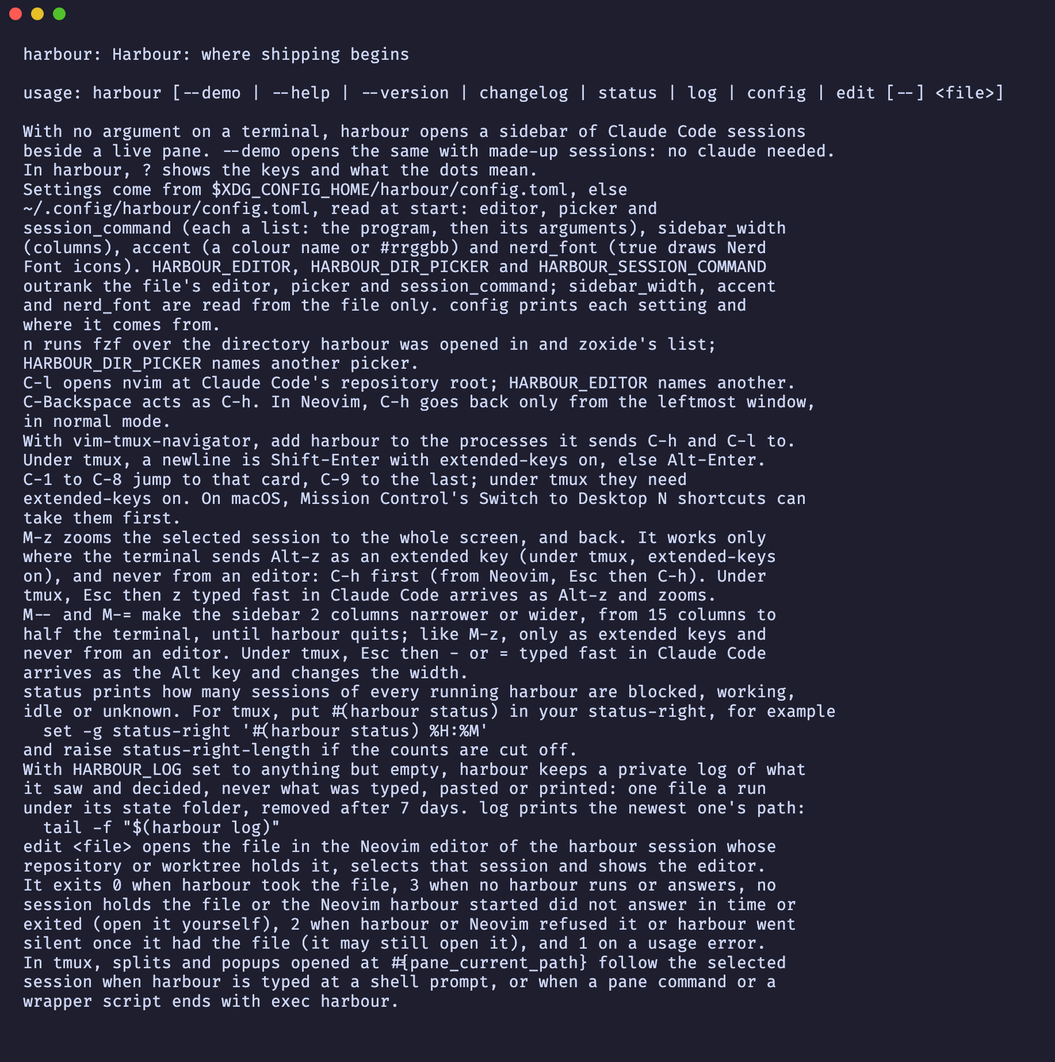
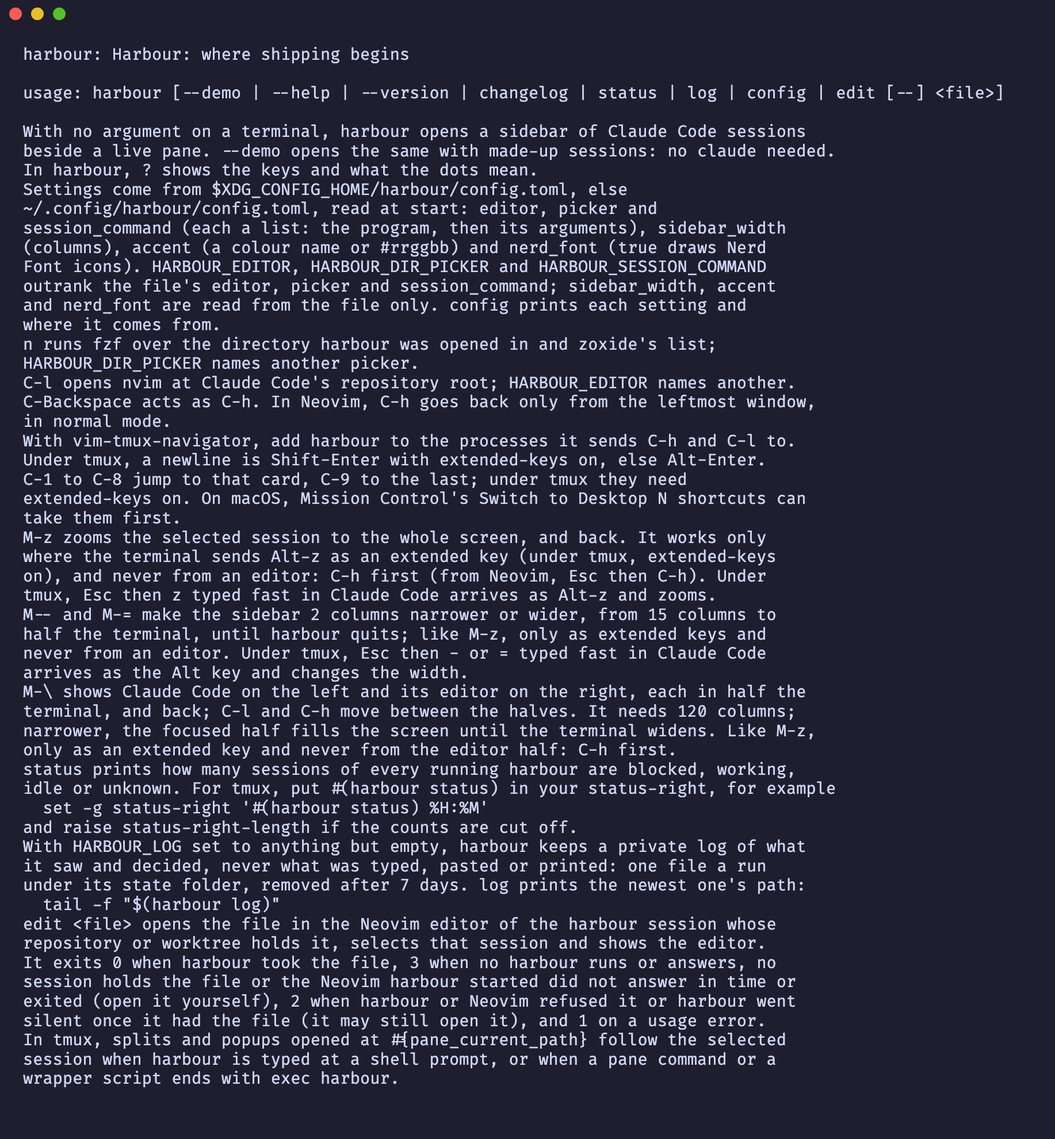
Alt-backslash in the help, the README, harbour --help, the log and the screenshots

Changed region(s): [[0.0, 0.0309, 0.8391, 0.9572], [0.8702, 0.0618, 0.9324, 0.0926]]

diff --git a/tests/app/help.rs b/tests/app/help.rs
@@ -27,10 +27,7 @@ fn question_mark_shows_the_editor_keys() {
     screen.press('?');
 
     let shown = screen.draw();
-    assert!(
-        shown.contains("from Claude Code, C-l opens its editor"),
-        "{shown}"
-    );
+    assert!(shown.contains("from Claude Code, its editor"), "{shown}");
     assert!(shown.contains("end it and its editors"), "{shown}");
     assert!(
         shown.contains("show the next editor, one per directory"),
@@ -47,6 +44,19 @@ fn question_mark_shows_the_zoom_key() {
     let shown = screen.draw();
     assert!(
         shown.contains("M-z        zoom the session to the whole screen, or back"),
+        "{shown}"
+    );
+}
+
+#[test]
+fn question_mark_shows_the_side_by_side_key() {
+    let mut screen = Screen::new(reading_agent());
+
+    screen.press('?');
+
+    let shown = screen.draw();
+    assert!(
+        shown.contains("M-\\        Claude Code beside its editor (120+ columns)"),
         "{shown}"
     );
 }
@@ -72,7 +82,7 @@ fn question_mark_says_how_to_resume_and_forget_a_stopped_session() {
     screen.press('?');
 
     let shown = screen.draw();
-    assert!(shown.contains("focus the pane or resume;"), "{shown}");
+    assert!(shown.contains("focus or resume;"), "{shown}");
     assert!(shown.contains("or forget an ended one"), "{shown}");
     assert!(shown.contains("○ idle, exited, or stopped"), "{shown}");
 }
@@ -133,13 +143,13 @@ fn the_whole_help_shows_on_a_20_row_terminal() {
 }
 
 #[test]
-fn the_help_leaves_one_row_for_new_keys_on_a_20_row_terminal() {
+fn the_help_fills_every_row_of_a_20_row_terminal() {
     let mut screen = Screen::new(reading_agent());
 
     screen.press('?');
 
     let shown = screen.draw();
-    assert_eq!(spare_rows(&shown), 1, "{shown}");
+    assert_eq!(spare_rows(&shown), 0, "{shown}");
 }
 
 #[test]

diff --git a/src/help.rs b/src/help.rs
@@ -1,14 +1,12 @@
 pub const KEYS: &[(&str, &str)] = &[
     ("j/k", "select the next / previous session"),
     ("n", "pick a directory and start a session there"),
-    (
-        "C-l/Enter",
-        "focus the pane or resume; from Claude Code, C-l opens its editor",
-    ),
+    ("C-l/Enter", "focus or resume; from Claude Code, its editor"),
     ("C-h", "focus the sidebar; from an editor, Claude Code"),
     ("C-1..C-9", "focus or resume that card; C-9 the last"),
     ("M-z", "zoom the session to the whole screen, or back"),
     ("M--/M-=", "narrow / widen the sidebar by 2 columns"),
+    ("M-\\", "Claude Code beside its editor (120+ columns)"),
     ("e", "show the next editor, one per directory"),
     ("x", "end it and its editors, or forget an ended one"),
     ("u", "show Claude Code's usage and limits"),

diff --git a/tests/cli.rs b/tests/cli.rs
@@ -376,6 +376,10 @@ M-- and M-= make the sidebar 2 columns narrower or wider, from 15 columns to
 half the terminal, until harbour quits; like M-z, only as extended keys and
 never from an editor. Under tmux, Esc then - or = typed fast in Claude Code
 arrives as the Alt key and changes the width.
+M-\\ shows Claude Code on the left and its editor on the right, each in half the
+terminal, and back; C-l and C-h move between the halves. It needs 120 columns;
+narrower, the focused half fills the screen until the terminal widens. Like M-z,
+only as an extended key and never from the editor half: C-h first.
 status prints how many sessions of every running harbour are blocked, working,
 idle or unknown. For tmux, put #(harbour status) in your status-right, for example
   set -g status-right '#(harbour status) %H:%M'

diff --git a/src/main.rs b/src/main.rs
@@ -38,6 +38,10 @@ M-- and M-= make the sidebar 2 columns narrower or wider, from 15 columns to
 half the terminal, until harbour quits; like M-z, only as extended keys and
 never from an editor. Under tmux, Esc then - or = typed fast in Claude Code
 arrives as the Alt key and changes the width.
+M-\\ shows Claude Code on the left and its editor on the right, each in half the
+terminal, and back; C-l and C-h move between the halves. It needs 120 columns;
+narrower, the focused half fills the screen until the terminal widens. Like M-z,
+only as an extended key and never from the editor half: C-h first.
 status prints how many sessions of every running harbour are blocked, working,
 idle or unknown. For tmux, put #(harbour status) in your status-right, for example
   set -g status-right '#(harbour status) %H:%M'

diff --git a/src/app/logging.rs b/src/app/logging.rs
@@ -5,6 +5,7 @@ use crossterm::event::{KeyCode, KeyEvent, KeyModifiers};
 use ratatui::layout::Rect;
 
 use super::jump::position;
+use super::side::is_side;
 use super::split::widens;
 use super::zoom::is_zoom;
 use super::{App, Entry};
@@ -348,6 +349,7 @@ fn named(key: KeyEvent, resized: bool) -> String {
         }
         _ if let Some(position) = position(key) => format!("C-{position}"),
         _ if is_zoom(key) => "M-z".to_string(),
+        _ if is_side(key) => "M-\\".to_string(),
         KeyCode::Char(c) if resized && widens(key).is_some() => format!("M-{c}"),
         KeyCode::Char(c) if BOUND.contains(&c) && KeyModifiers::SHIFT.contains(key.modifiers) => {
             c.to_string()

diff --git a/tests/app/logging.rs b/tests/app/logging.rs
@@ -107,6 +107,16 @@ fn the_zoom_key_is_logged_by_its_name() {
 }
 
 #[test]
+fn the_side_by_side_key_is_logged_by_its_name() {
+    let (app, lines) = logged(App::new(reading_agent()));
+    let mut screen = focused(app);
+
+    screen.key(KeyCode::Char('\\'), KeyModifiers::ALT);
+
+    only(&read(&lines), r#" key name="M-\\""#);
+}
+
+#[test]
 fn the_narrower_key_is_logged_by_its_name() {
     let (app, lines) = logged(App::new(reading_agent()));
     let mut screen = focused(app);

diff --git a/src/app/side.rs b/src/app/side.rs
@@ -174,7 +174,7 @@ impl App {
     }
 }
 
-fn is_side(key: KeyEvent) -> bool {
+pub(super) fn is_side(key: KeyEvent) -> bool {
     key.code == KeyCode::Char('\\')
         && key.modifiers == KeyModifiers::ALT
         && key.kind == KeyEventKind::Press

diff --git a/AGENTS.md b/AGENTS.md
@@ -51,21 +51,22 @@ src/config.rs                 harbour's settings file, `$XDG_CONFIG_HOME/harbour
 src/picker.rs                 the directory picker of `n`: a program run as a session in a popup, its standard output sent to a file in a temporary directory only its owner can open (0700), the first line it prints, as bytes, canonicalized (read from where harbour was opened when relative), every path kept as bytes on the way into its arguments, exit statuses 126 and 127 (and 2 for fzf) named as "could not start"; fzf given `--no-expect --no-print-query --no-read0 --no-print0` after the user's `FZF_DEFAULT_OPTS`, so it prints one directory a line; for fzf the popup's own shell writes the list (harbour's directory first, then the list command's lines without it) into a FIFO fzf reads, so a slow list never holds up harbour, and a missing fzf means "start at once" for the default only (a configured one is refused as "could not start"); a bare program name is searched on `PATH` with each relative entry taken from where harbour was opened, where the popup's shell runs it
 src/app/mod.rs                the app: its state and what each paste and mouse event does; each session's one directory Claude Code was last seen in, which C-l opens, and its editors, one per directory, which `e` shows in turn
 src/app/key.rs                what each key does: C-Backspace taken as C-h; Ctrl-Shift-h and Ctrl-Shift-l acted on as C-h and C-l where harbour itself takes the key (the sidebar, over Claude Code, and C-h an editor does not keep), else sent as pressed; Ctrl-m in the sidebar as Enter; Claude Code always gets the legacy bytes (Shift-Enter and Ctrl-Enter the new line, ESC CR), a picker or shown editor the form its program asked for, and a plain Enter for Shift-Enter and Ctrl-Enter when it asked for nothing; to the usage popup while it is open, to the picker while it is open, an answer while a question or the help shows, C-h and C-l over the pane, to the shown session while the pane has focus, else one line per sidebar key, each calling its handler
-src/app/draw.rs               what the app draws, after settling exited editors and answering up to 4 `harbour edit` requests a frame, never one past its deadline; where the terminal's real cursor goes (the shown session's cursor cell while the pane has focus, the picker's over its popup, none while the sidebar has focus, under the help view, for an exited session, a hidden cursor or a message drawn over it) and the shape the app asks for, the shown program's own whether or not its cursor is hidden or the sidebar has focus, the default under the help view and with no session shown
+src/app/draw.rs               what the app draws, after settling exited editors and answering up to 4 `harbour edit` requests a frame, never one past its deadline; where the terminal's real cursor goes (the shown session's cursor cell while the pane has focus, side by side the focused half's, the picker's over its popup, none while the sidebar has focus, under the help view, for an exited session, a hidden cursor or a message drawn over it) and the shape the app asks for, the shown program's own whether or not its cursor is hidden or the sidebar has focus, the default under the help view and with no session shown
 src/app/handoff.rs            which session holds a file `harbour edit` names (a path inside a session's `root`, resolved through symlinks, never a stopped card's; the deepest root first, then the selected session, then the one the user last acted on: keys, paste or mouse sent to it, C-l, its start) and opening it: that session selected and its editor shown with the file, as C-l would show it; where each session works read again before an open, and that same root used for it; `none` to an ask and a refusal to an open while a question, the picker or the usage popup waits, `none` to an ask and a refusal to an open for an editor that is not Neovim, busy past the deadline, and when Neovim cannot start or take the file, a refusal leaving the screen as it was; a Neovim it started that stays silent until the deadline closed and the request untaken, and one that exits untaken at once
 src/app/logging.rs            what the app writes to the log: start and quit, a bound key by name (a key or paste forwarded only as `input to=<where> bytes=<n>`, the bytes sent, never its text; an unbound key the sidebar does not forward as `key name=other`), focus, selection, refusals, each session's and editor's start and exit, every `harbour edit` request and Neovim call, a frame of 100 ms or more, and the panics a session contained; nothing when the log is off
 src/app/jump.rs               `jump`: Ctrl-1 to Ctrl-8 select the card at that position and Ctrl-9 the last, from the sidebar or a pane (a session never gets them), then focus its pane or resume it as Enter does; nothing beyond the last card, nothing while a question, the help view or the picker is shown; they arrive only as extended keys, so a terminal without them sends what it sent before
-src/app/zoom.rs               zoom: Alt-z (or Alt-Z, Caps Lock on), only in an extended form and never from an editor (a legacy `ESC z` or an editor's Alt-z goes on to the session), from the sidebar or Claude Code on a running session shows its pane alone and focuses it (from the sidebar its Claude Code, even on a card that showed its editor), and again brings the sidebar back, clearing a failure message as it zooms; each frame drops it once the pane loses focus or the session ends; the zoomed border: the counts at the right, then the session's headline (`src/zoom.rs`) guaranteed its dot, up to 16 columns of title and the time, the names in the rest, what they leave back to the headline
+src/app/zoom.rs               zoom: Alt-z (or Alt-Z, Caps Lock on), only in an extended form and never from an editor (a legacy `ESC z` or an editor's Alt-z goes on to the session), from the sidebar or Claude Code on a running session shows its pane alone and focuses it (from the sidebar its Claude Code, even on a card that showed its editor), and again brings the sidebar back, clearing a failure message as it zooms; each frame drops it once the pane loses focus or the session ends, and Alt-\ side by side with no editor left turns into it; the zoomed border: the counts at the right, then the session's headline (`src/zoom.rs`) guaranteed its dot, up to 16 columns of title and the time, the names in the rest, what they leave back to the headline
+src/app/side.rs               side by side: Alt-\, under the same rule as Alt-z, from the sidebar or Claude Code on a running session hides the sidebar and shows its Claude Code in the left half and its editor (opened as C-l opens it) in the right, focusing Claude Code, and again brings the sidebar back; nothing under 120 columns or when the editor cannot open; C-l and C-h move the focus between the halves, a click focuses its half and a gesture stays with the half it began in, only the focused half draws a cursor, and Ctrl-1 to Ctrl-9 keep the mode for the session they show; narrower than 120 columns the focused half fills the screen until the terminal widens; each frame drops it once the pane loses focus or the session ends; the borders: the headline and `claude` over the left half, the editor's name and directory and the counts over the right, the focused half's names bold
 src/app/remember.rs           what the app does with remembered sessions: recalls them once as stopped cards, at most 100 by position, from one listing of every projects folder (a card whose transcript is gone is left out, its file forgotten once it is 30 days old), says on line 2 and in the pane why one cannot resume (`directory gone`, `open elsewhere` while a live pid's registry file or another harbour's reservation names its id), resumes one with `<command> --resume <id>` in its directory after checking both again and reserving the id for as long as it runs, keeps each session's id, directory, title and position once its transcript exists (again when its file went missing, once more when it exits and at quit), merges a stopped card into the session that resumed its conversation, forgets on `x` (never a file a session open elsewhere owns), clears its `gone` and `open elsewhere` messages on a new selection, the next attempt or once the card can resume, and adds `Conversations come back stopped.` to the quit question
 src/app/usage.rs              `u`: a popup, 80 by 30 or the terminal when smaller, running `<claude> -p --no-session-persistence --setting-sources user /usage` (the session command's program when its file name is `claude`, its arguments dropped, else a refusal on the message line) always in harbour's private (0700) `usage/` beside `status/` under the state folder, made on demand and closed again when found open, never a session's folder, since `-p` skips the trust question (no state folder, or one it cannot make private, refuses on the message line), on a 200-row PTY so it shows the start of the report; `loading…` while nothing is printed, the screen as soon as anything prints, and `printed nothing` or `exit <code>` in its title only once its process has exited and its output is read to its end, or half a second after the exit when something it started keeps the terminal open; the PTY keeps its width once something printed, so a narrower popup shows the left part and widening shows it all again; only `u` or `U` with no modifier but Shift opens it; every key, paste and mouse event goes to it while open, Esc and `q` or `Q` close it, end its process and log `usage closed`; never a card, never remembered
-src/app/split.rs              how the sidebar and the pane share the terminal: two columns, from 60 columns, the sidebar a third or the configured width cut to half, the pane the rest; below that one side at a time, the pane while it has focus, else the sidebar; zoomed, the pane alone; Alt-minus and Alt-equals, with or without Shift, only in an extended form and never from an editor, make the sidebar 2 columns narrower or wider, from 15 columns to half, nothing under 60 columns or while zoomed, the width kept in place of the configured one until quit
+src/app/split.rs              how the sidebar and the pane share the terminal: two columns, from 60 columns, the sidebar a third or the configured width cut to half, the pane the rest; below that one side at a time, the pane while it has focus, else the sidebar; zoomed or side by side, the pane alone; Alt-minus and Alt-equals, with or without Shift, only in an extended form and never from an editor, make the sidebar 2 columns narrower or wider, from 15 columns to half, nothing under 60 columns or while zoomed, the width kept in place of the configured one until quit
 src/handoff.rs                `harbour edit <file>` and its listener: the file made absolute (its folder resolved when the file does not exist yet, a dangling symlink followed to where it points, 4096 bytes at most), every harbour asked over a socket in a private (0700) `$XDG_STATE_HOME/harbour/edit/`, else `~/.local/state/harbour/edit/`, which of its sessions holds it, how deep its root lies, whether it is selected and when it was last used, and the first by that order told to open it; the listener binds `<pid>-<n>.sock` (0600), removes it when dropped, binds again within 5 s when it is gone, removes the sockets no process listens on, and, on a thread of its own that sleeps in `poll` until a connection, its check or harbour's exit wakes it, accepts, checks the peer and reads each request on a thread of its own (at most 16 in flight, the rest closed at once), keeping only a request from its own user that arrives within 100 ms and has not expired; it resolves the path again itself, answers `none` or a refusal when it does not resolve, and hands the app the rest over a channel with a deadline of its expiry, 5 s at most
 src/memory.rs                 the remembered sessions on disk: one `<sessionId>.json` per conversation under `$XDG_STATE_HOME/harbour/sessions/<configuration>/`, else `~/.local/state/harbour/sessions/<configuration>/`, one folder per Claude Code configuration (a stable hash of its resolved `projects/` path, symlinks followed), so a harbour never shows, resumes or prunes another configuration's conversations (0700 folder, 0600 files, written through a staged file and a rename, a staged file older than a minute swept); the directory stored as text, or as its bytes when it is not UTF-8; no file names another, so none deletes another; read leniently: a regular file only, never through a symlink, at most 64 KiB, `version` 1, an id of Claude Code's shape (a lowercase 8-4-4-4-12 hex UUID, so `--resume <id>` never reads it as an option) matching its name, an absolute directory, anything else skipped and left on disk, a file from a newer version never overwritten or removed; `reserve`: a private `<id>.<unique>.lock` held with a non-blocking lock by every running session with a remembered id (taken when the id is first known, the new one taken before the old one is released when it changes, tried again at each read while held elsewhere) and kept only while that file is still at its path, retried once when held, dead ones swept
 src/follow.rs                 where harbour works, so tmux's `#{pane_current_path}` follows the selected session: the `root` of the editor for its last seen directory, or where harbour was opened with no session or when that directory is gone or cannot be entered; checked at a frame when the selection or the directory changed, else every half second, and moved to only when it differs by path or by device and inode (a directory replaced in place is entered again); `temporary`, the temporary directory made absolute at start
 src/editor.rs                 an editor beside a session's Claude Code pane: the program it runs and the directory it belongs to, started with harbour's `TMUX` and `TMUX_PANE`, so a tmux command it runs targets harbour's pane, `root` (the repository root `repo::root` finds, the card's own walk, never walked up from a directory that is gone); Neovim listens on a socket in a private (0700) temporary directory removed with the editor, under `/tmp` when the temporary directory would make the socket path too long for macOS (103 bytes), and without one when that directory cannot be made, and says through it whether it has unsaved changes (`changes`: saved, unsaved, or unknown when it cannot be asked; a modified buffer counts when its `buftype` is empty or `acwrite`, a file the user would lose, never a terminal, prompt, `nofile` or `nowrite` buffer), and whether C-h stays in it (`wants_ctrl_h`: anything but mode `n` or `nt` with `blocking` false in the leftmost window); a session's editors end with it
 src/nvim.rs                   `mode`, `eval` and `edit`: one msgpack-RPC `nvim_get_mode`, `nvim_eval` or `nvim_cmd` (`edit` with the path as bytes and `magic` off, so `%`, `#`, `|` and spaces stay in the name) over that socket, the connect, the write and the read all bounded by one deadline, the reply matched by its request id (a notification before it is skipped, at most 1 MiB read), `None` for no answer before the deadline
 src/zoom.rs                   `guaranteed`, the columns the headline keeps before the names fit (its dot, up to 16 columns of title, the time); `info`, a pure function: the zoomed border's headline, the dot, title, `repository · branch` and time, fitted to a room (the place cut first, then the title, the place alone without a title; the time kept while the title has a column; the dot alone at 3 columns, nothing under)
-src/tabs.rs                   `strip`, a pure function: the pane border's `claude | <editor>: <directory>`, fitted by display width (the directory loses its start first, then the editor's name; nothing shows once not one column of the editor's name fits); `iconed`, the same with `nerd_font` on: the glyph of `src/icons.rs` and a space before `claude`, and before the editor's name when it is Neovim, the directory going first, then both glyphs together, then the rest as `strip` fits it, so a glyph never shows without its whole name
+src/tabs.rs                   `strip`, a pure function: the pane border's `claude | <editor>: <directory>`, fitted by display width (the directory loses its start first, then the editor's name; nothing shows once not one column of the editor's name fits); `claude` and `editor_named`, the side-by-side borders' names, each fitted alone; `iconed`, the same with `nerd_font` on: the glyph of `src/icons.rs` and a space before `claude`, and before the editor's name when it is Neovim, the directory going first, then both glyphs together, then the rest as `strip` fits it, so a glyph never shows without its whole name
 src/icons.rs                  the Nerd Font glyphs harbour draws with `nerd_font` on: `md-creation` (U+F0674) for Claude Code, `custom-neovim` (U+E6AE) for Neovim, `oct-repo` (U+F401), `oct-git_branch` (U+F418), `oct-git_pull_request` (U+F407) and `cod-sparkle` (U+EC10) for a card's repository, branch, pull request and subagents, each one column wide
 src/session.rs                a session: a command in a PTY, refused as `Not a directory: <path>` when its directory is not one, started without `TMUX` and `TMUX_PANE` (a Claude Code session and the picker belong to no tmux pane) unless started as an editor, its output parsed into a screen that renders as a widget painting no cursor of its own, its terminal queries answered, what an editor's or the picker's program asked for in keys (`keyboard`, its kitty query answered; a Claude Code session's requests ignored and its kitty query left unanswered, so it always gets the legacy keys; forgotten at a terminal reset, `ESC c`, and when the program exits), the cursor shape its program last asked for (`ESC [ <n> SP q`, 0 to 6, a larger value ignored) and where its cursor lies in the area it is drawn in (none when hidden or outside it, a cursor waiting after the last column on that column), its exit status, its screen never under 2 rows or 2 columns (vt100 panics below that); once its command has exited its screen keeps its size and is clipped when drawn, since a resize would cut it for good; every call into vt100 contained, so a panic gives that session a fresh screen with the modes, the keys and the cursor shape its program had turned on and a repaint instead of taking harbour down, and the panic hook stays silent for it; writes go through a writer thread so a child that does not read never blocks the interface; ending it (or dropping it) hangs up its whole process group, then kills it, only while the child is unreaped; quitting hangs up every session first and waits once
 src/demo.rs                   the made-up sessions of `--demo` and its picker (fzf over made-up directories, without harbour's directory), and its `nvim` (a script printing a made-up file, no socket), and its usage report for `u`: `acme/*` scripts, never real data; the registry they write in the temp dir, with a made-up checkout for each session to start in, removed when dropped
@@ -76,7 +77,7 @@ src/transcript.rs             a session's transcript (`<CLAUDE_CONFIG_DIR or ~/.
 src/card.rs                   a session's card in the sidebar: three lines cut by `src/text.rs`, line 3 with `with_icons` (`nerd_font` on) a glyph and a space before each fact in place of the dots and the word `subagents`, and the Neovim glyph and a space last while the session has an editor open and the editor is Neovim (neither the subagents nor the editor on an ended card), cut from its end as without icons, a glyph that would keep no column of its text going too, line 2 the last prompt dimmed while working or idle (empty on the selected card), else what it waits for, `exited` or why it cannot resume, on every card; the time in its state at the right of line 1 (`<1m`, `3m`, `2h`, `4d`; for an exited session, since harbour saw the exit; none without a time), kept while the title has a column; the accent's bar (cyan by default, left out with no inner column) and bold down the selected card, a blank line between cards, the scroll that keeps the selected card whole and moves only when it would leave the view, kept as it was while the sidebar has no height (zoomed, or the narrow layout showing the pane)
 src/text.rs                   every cut of text harbour draws: measured in the cells ratatui fills for each grapheme (an emoji with a variation selector, a joined sequence or a flag counts whole, a halfwidth sound mark too), cut with `…` or wrapped by those columns (between words where a word fits), never wider than the room given; cleaned of control characters, bidi marks, U+061C, U+200B and a joiner that joins nothing, folded to one line and kept to 512 characters
 src/summary.rs                the counts a running harbour publishes for `harbour status` (one publication under a name of its own, pid, time and counter: `<name>.counts` beside a `<name>.lock` it holds, under `$XDG_STATE_HOME/harbour/status/`, else `~/.local/state/harbour/status/`, nowhere when neither is absolute, private, removed on quit, never waiting for a lock; a failed write or a missing file drops the whole publication, and a fresh one is made at most every `RETRY`, 5 s; making one removes every dead publication, a regular `<digits>-<digits>-<digits>.lock` other than its own that it can open for writing and no one holds, with its `.counts` and `.tmp`) and the reader that adds up the regular `.counts` files of that naming whose lock is still held, never following a symlink
-src/help.rs                   what the help view shows besides the legend: `KEYS`, which the README key table mirrors, and `REST`, its last line, pointing to `harbour --help`, which carries the notes (`HARBOUR_DIR_PICKER`, `HARBOUR_EDITOR`, C-Backspace arriving as C-h and Neovim's C-h rule, the tmux pattern, the newline under tmux, Alt-z's rule, `HARBOUR_LOG`)
+src/help.rs                   what the help view shows besides the legend: `KEYS`, which the README key table mirrors, and `REST`, its last line, pointing to `harbour --help`, which carries the notes (`HARBOUR_DIR_PICKER`, `HARBOUR_EDITOR`, C-Backspace arriving as C-h and Neovim's C-h rule, the tmux pattern, the newline under tmux, Alt-z's rule, Alt-\'s side by side, `HARBOUR_LOG`)
 src/log.rs                    the log `HARBOUR_LOG` (anything but empty) turns on: one `<pid>.log` a run (0600) in a private (0700) `$XDG_STATE_HOME/harbour/log/`, else `~/.local/state/harbour/log/`, none when neither is absolute; each line stamped in UTC to the millisecond, built only when the log is on, and handed to a thread of its own over a queue of 4096 that drops what does not fit, so a stalled disk never delays a key or a frame, and `finish`, at quit, waits up to 500 ms for what is queued; never through a symlink, at the file or the folder; at start, removes the `<digits>.log` regular files older than 7 days whose pid is not alive; `newest`, what `harbour log` prints
 src/cursor.rs                 `Shape`: the cursor shape last sent to the terminal, starting at the default (0) and shared by its clones (the panic hook holds one), `ESC [ <n> SP q` written only when the shape asked for differs, and `ESC [ 0 SP q` on leaving only when the last one sent was not the default, the default then recorded as sent
 src/keys.rs                   the bytes a terminal sends for a key, which a session receives: the legacy encoding, and `encode_as`, the form a program asked for: xterm's `modifyOtherKeys` level 1 (a Ctrl key with a control byte as that byte, Alt alone and unmodified keys legacy, every other modified key as `ESC [ 27 ; mod ; code ~`) or level 2 (every modified key in that form), both with F13 to F24 as Shift-F1 to F12 and F25 to F35 unmodified as Ctrl-F1 to F11, or kitty's disambiguation (Esc and every Ctrl or Alt key as `ESC [ code ; mod u`, a modified Enter, Tab or Backspace too, F3 as `ESC [ 13 ~`, F13 to F35 from 57376); `Asked`, what a program asked for: the `modifyOtherKeys` level (off again at `ESC [ > 4 n`) and the kitty flags (disambiguation only) with their push, pop (16 deep), set and query, answered with the flags held, the kitty form winning while its flag is set
@@ -112,7 +113,7 @@ scripts/homebrew-formula.sh   prints the tap formula for a released version
 scripts/formula-version.sh    the `tap` job's decision; never a version below the formula's
 scripts/stable-version.sh     the `stable-build` and `stable` jobs' decision, asked by both: the release the `stable` branch moves to, never below the version it holds
 scripts/sweep-report.sh       `[<first phase>]`: the sweep's data from `plans/`, as Markdown; counts and groups, judges nothing
-scripts/screenshots.sh        renders docs/details.png from `harbour --demo` and docs/help.png from `harbour --help`, plus one `shoot` per extra view (keys, pane, question, quit, ended (the demo with its blocked session ended, a count gone from the title), editor, usage, narrow, zoom (the demo after M-z, with tmux's `extended-keys` on for that shot alone), picker, accent (the interface without `--demo`, through a config file written into the scratch `HOME` and removed after it), icons (the same with `nerd_font = true` and an editor script named `nvim`, its session a script that writes a registry file and a transcript naming a pull request and two running subagents in a scratch repository on a branch, the border's and the card's glyphs shown); truecolor.py converts ANSI)
+scripts/screenshots.sh        renders docs/details.png from `harbour --demo` and docs/help.png from `harbour --help`, plus one `shoot` per extra view (keys, pane, question, quit, ended (the demo with its blocked session ended, a count gone from the title), editor, usage, narrow, zoom (the demo after M-z, with tmux's `extended-keys` on for that shot alone), side-by-side (the demo after M-\, `extended-keys` on too, the demo editor beside Claude Code), picker, accent (the interface without `--demo`, through a config file written into the scratch `HOME` and removed after it), icons (the same with `nerd_font = true` and an editor script named `nvim`, its session a script that writes a registry file and a transcript naming a pull request and two running subagents in a scratch repository on a branch, the border's and the card's glyphs shown); truecolor.py converts ANSI)
 scripts/sweep-issue.sh        the `issue` job of `sweep.yml`: opens "Sweep due before phase N" with the report once the next phase is a multiple of 5, never twice
 docs/                         the screenshots `scripts/screenshots.sh` writes (see "Documentation rule")
 changes/                      one fragment per pull request that feeds the binary (`kind:` and the changelog bullets); add-only, see Releasing
@@ -126,7 +127,7 @@ tests/           outside-in: `tests/cli.rs` runs the real binary;
                  `tests/session/` (`keyboard.rs` what a program asked for in keys) and `tests/app/` run sessions in process, as `/bin/sh -c` scripts;
                  `tests/edit.rs` runs `harbour edit` against listeners of `tests/handoff.rs`'s kind, which a test answers itself; `tests/app/handoff.rs` hands the app requests and stands in a socket for Neovim; `tests/app/nearest.rs` covers which holder gets the file and what moves its last use; `tests/e2e/edit.rs` runs `harbour edit` against harbour, and `tests/e2e/neovim.rs` holds four smoke tests against a real clean Neovim; `tests/app/real_neovim.rs` runs that Neovim's TUI in a harbour session and checks `mode`, `eval`, `edit`, `changes`, `wants_ctrl_h` and `open` against it; `tests/idle.rs` (Linux only) counts the listener thread's wake-ups while idle;
                  `tests/app/jumping.rs` covers Ctrl-1 to Ctrl-9 in process, `tests/e2e/keys.rs` what tmux sends for them with extended keys on and off;
-                 `tests/app/zoom.rs` covers Alt-z in process, `tests/app/width_keys.rs` Alt-minus and Alt-equals, `tests/app/zoom_border.rs` the zoomed border, `tests/zoom.rs` the table of how its headline fits a room;
+                 `tests/app/zoom.rs` covers Alt-z in process, `tests/app/width_keys.rs` Alt-minus and Alt-equals, `tests/app/zoom_border.rs` the zoomed border, `tests/app/side.rs` Alt-\ in process, `tests/app/side_border.rs` its borders, `tests/app/side_mouse.rs` its clicks and gestures, `tests/zoom.rs` the table of how its headline fits a room;
                  `tests/app/moving.rs` hands the app a recording move, never the real one; `tests/e2e/moving.rs` reads `#{pane_current_path}` of a harbour started with `Server::exec`;
                  `tests/app/usage.rs` covers the usage popup of `u` (what reaches it, what it leaves behind, its program), `tests/app/usage_states.rs` what it shows (loading, nothing, an exit, its size, its width after a shrink and its private folder);
                  `tests/tabs.rs` is the table of how the pane border's names fit a width, with and without icons;

diff --git a/README.md b/README.md
@@ -42,11 +42,12 @@ harbour config      # the settings file's path and where each setting comes from
 |---|---|
 | `j/k` | select the next / previous session |
 | `n` | pick a directory and start a session there |
-| `C-l/Enter` | focus the pane or resume; from Claude Code, C-l opens its editor |
+| `C-l/Enter` | focus or resume; from Claude Code, its editor |
 | `C-h` | focus the sidebar; from an editor, Claude Code |
 | `C-1..C-9` | focus or resume that card; C-9 the last |
 | `M-z` | zoom the session to the whole screen, or back |
 | `M--/M-=` | narrow / widen the sidebar by 2 columns |
+| `M-\` | Claude Code beside its editor (120+ columns) |
 | `e` | show the next editor, one per directory |
 | `x` | end it and its editors, or forget an ended one |
 | `u` | show Claude Code's usage and limits |

diff --git a/changes/phase-29-side-by-side.md b/changes/phase-29-side-by-side.md
@@ -1,0 +1,9 @@
+kind: feat
+
+- Alt-\ hides the sidebar and shows the selected session's Claude Code on the left and its
+  editor on the right, each in half the terminal; Alt-\ again brings the sidebar back. It needs
+  a terminal at least 120 columns wide and one that sends Alt-\ as an extended key (under tmux,
+  `extended-keys` on), and never acts from the editor half: C-h there first.
+- Side by side, C-l and C-h move the focus between the halves, a click focuses the half it
+  lands in, and only the focused half shows a cursor. Below 120 columns the focused half fills
+  the screen until the terminal is wide enough again.
